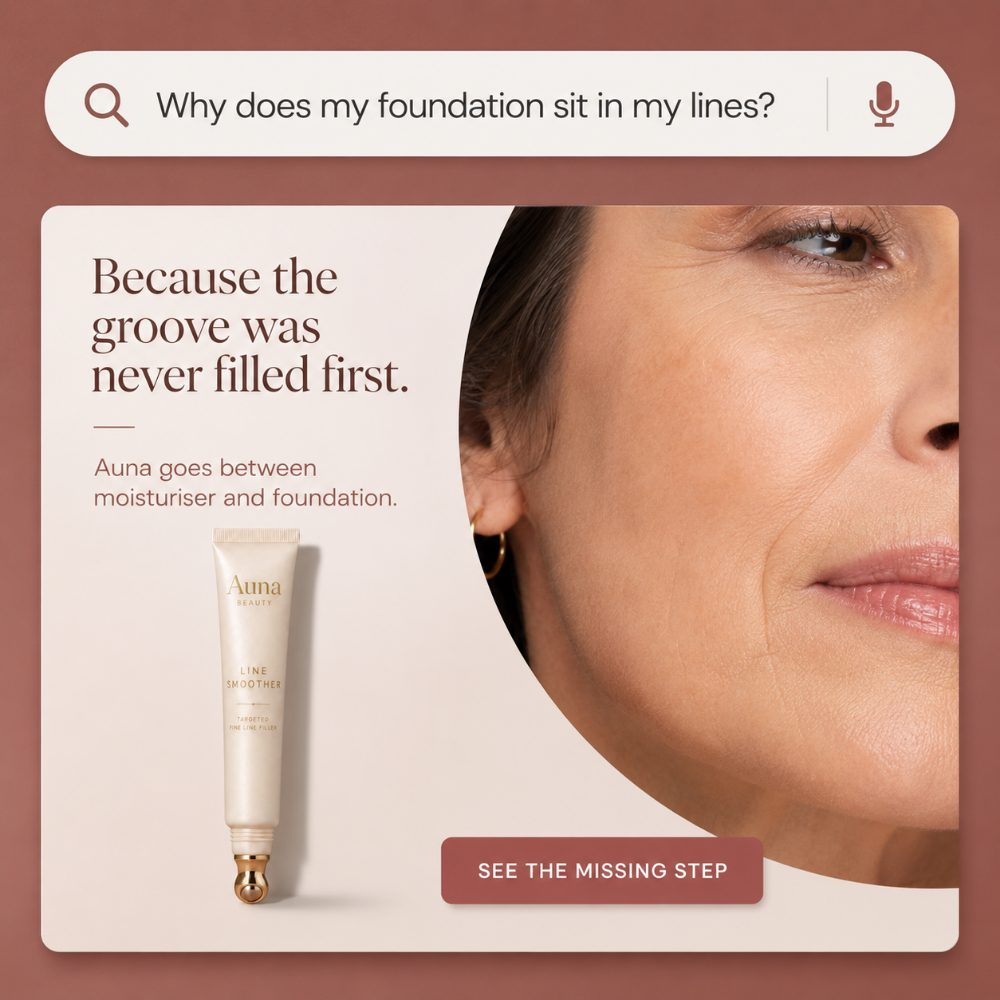
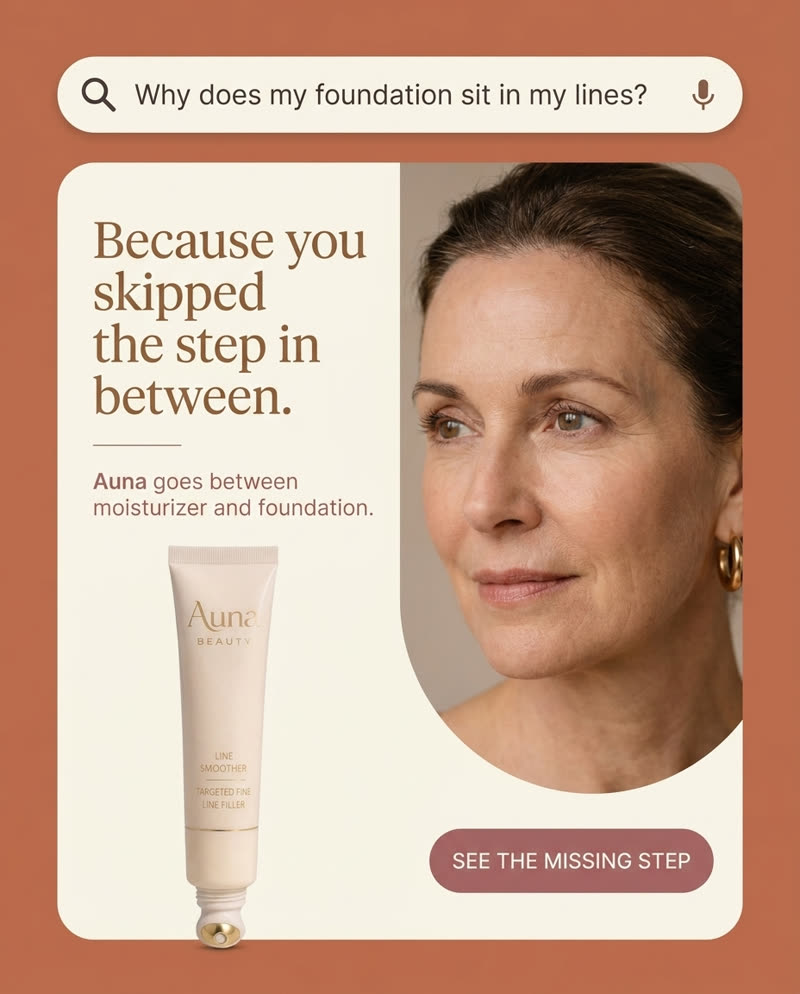
Add Auna DE-024/DE-025 statics and Sean Ferres static ads
- Auna Static 02 now uses the DE-025 search-bar version; DE-024 added as Static 03
- Sean Ferres text card replaced with two real static ads

Claude-Session: https://claude.ai/code/session_01MjKYravDNQWt4p3zmUPCK8

diff --git a/index.html b/index.html
@@ -504,6 +504,15 @@
       </div>
     </article>
     <article class="slide">
+      <div class="slide-media slide-media--static">
+        <img src="assets/img/auna-static-3.jpg" alt="Auna Beauty static image ad" loading="lazy">
+      </div>
+      <div class="slide-info">
+        <p class="slide-client">Auna Beauty <em>Static 03</em></p>
+        <p class="slide-desc">Concept &rarr; copy &rarr; static image ad</p>
+      </div>
+    </article>
+    <article class="slide">
       <div class="slide-media">
         <video controls muted playsinline preload="none" poster="assets/img/tellmytale-poster.jpg">
           <source src="assets/video/tellmytale.mp4" type="video/mp4">
@@ -549,15 +558,21 @@
       </div>
     </article>
     <article class="slide">
-      <div class="slide-media slide-media--brief">
-        <p class="brief-label">Static ad sprint &middot; Ad 01 of 3</p>
-        <p class="brief-line"><span>Headline</span>Half the skill. Double the retainer.</p>
-        <p class="brief-line"><span>Format</span>Faceless news / tabloid static.</p>
-        <p class="brief-line"><span>Awareness</span>Solution aware.</p>
+      <div class="slide-media slide-media--static">
+        <img src="assets/img/sean-static-2.jpg" alt="Sean Ferres static ad: breaking news style" loading="lazy">
       </div>
       <div class="slide-info">
-        <p class="slide-client">Sean Ferres</p>
-        <p class="slide-desc">3 static concepts: angle, headline &amp; primary text</p>
+        <p class="slide-client">Sean Ferres <em>Static 01</em></p>
+        <p class="slide-desc">Static sprint: news / tabloid angle</p>
+      </div>
+    </article>
+    <article class="slide">
+      <div class="slide-media slide-media--static">
+        <img src="assets/img/sean-static-1.jpg" alt="Sean Ferres static ad: same skillset, different paycheck" loading="lazy">
+      </div>
+      <div class="slide-info">
+        <p class="slide-client">Sean Ferres <em>Static 02</em></p>
+        <p class="slide-desc">Static sprint: side-by-side infographic</p>
       </div>
     </article>
   </div>
